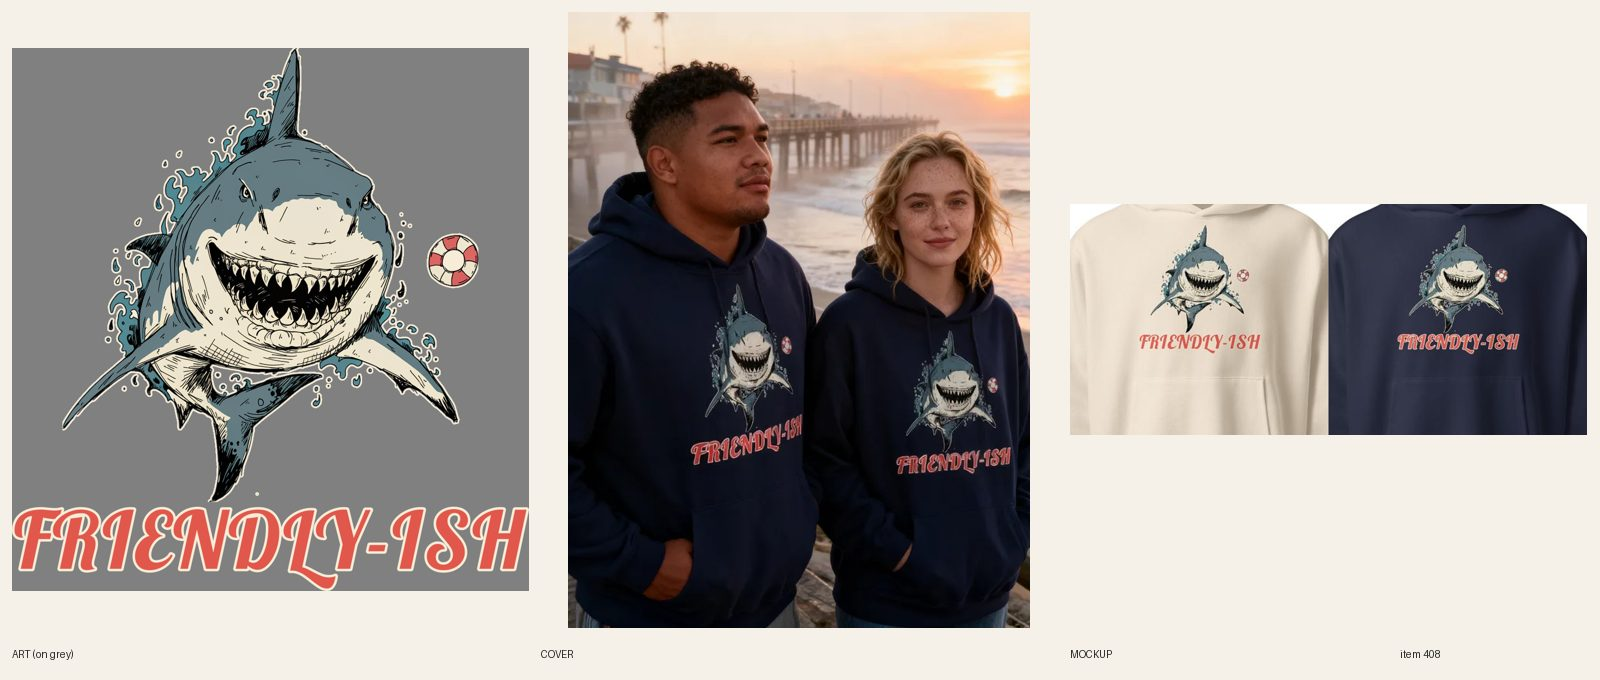
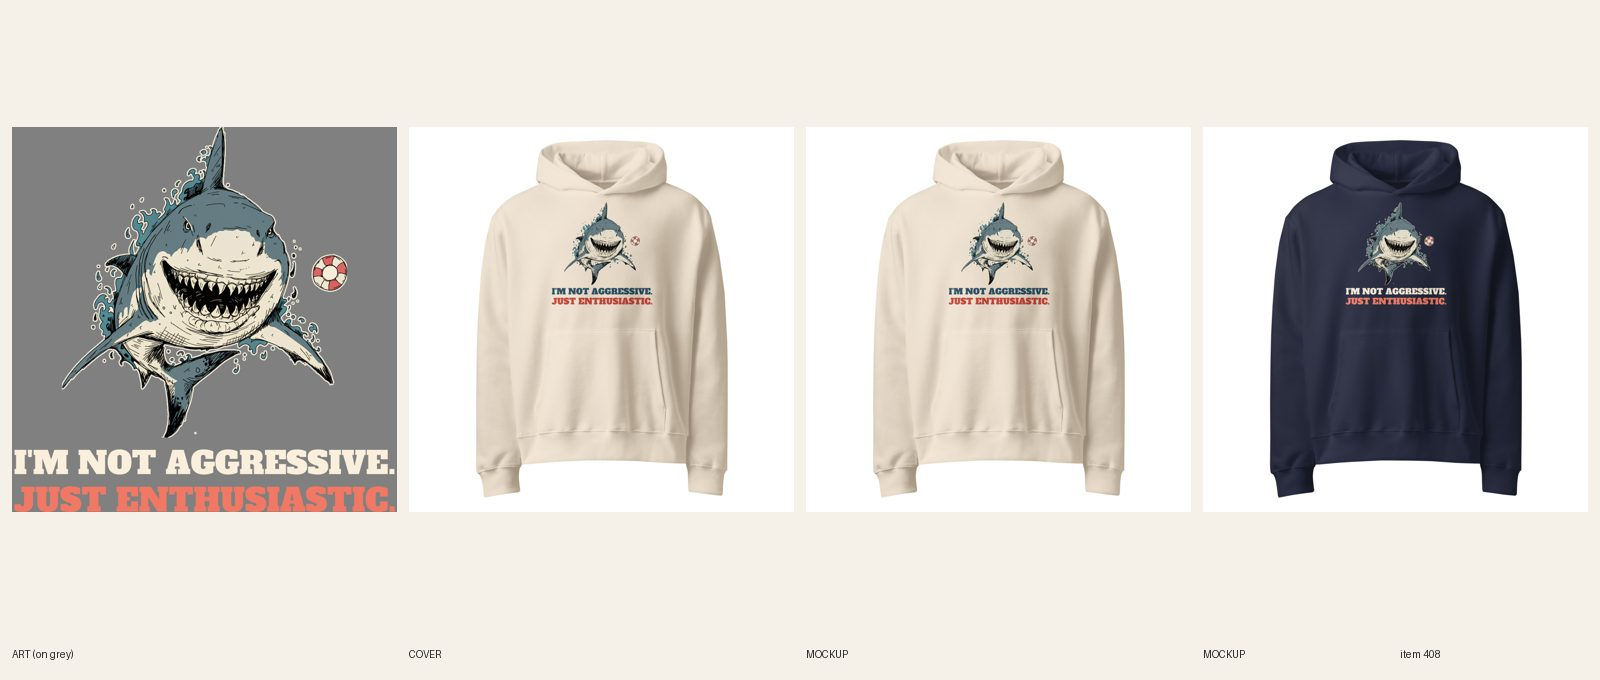
[A] review 408 (redo)
Claude-Session: https://claude.ai/code/session_01LaaEYpKaSBZd9opL7Tpo7i

diff --git a/docs/pipeline/408-oversized-hoodie-shark-friendly-ish.md b/docs/pipeline/408-oversized-hoodie-shark-friendly-ish.md
@@ -1,4 +1,4 @@
-status: BUILDING [A] 2026-10-20 08:26 UTC
+status: REVIEW
 lane: A
 type: new
 id: 408
@@ -30,3 +30,4 @@ kd: 20
 - 2026-10-17 21:52 UTC builder [A]: Printful resync verified (12/12 variants on the new file); REVIEW.
 - 2026-10-17 22:39 UTC director: APPROVED, LIVE. ACTIVE + Online Store, Headless and Google & YouTube; audit --handle PASS (0 warn). Copy polished by the director first (R8: keyword counts, superlatives, false claims).
 - 2026-10-18 17:22 UTC director: QUALITY RESET grade C (new line + type), REDO. The product stays ACTIVE (same handle, URL, title keyword). 1. Line (R3.12, quality-reset 'Lines'): "FRIENDLY-ISH": One-word mild aside on a grinning shark. Write 5 candidates, keep the one a stranger laughs at in 3 seconds without backstory; kill lines that only describe the picture; if none of the 5 is funny, PARK it. 2. Quality reset type bar (docs/backlog/quality-reset.md, 'The new bar'): headline at least 90% of the art width, heavy, colors pulled from the art; second line at least 45% of the headline's height, never a thin script on a dark or mid garment; use the lettering as a shape (arch, stacked lockup, words breaking into the art), not a plain bar above and a script line below; no font used on more than 1 in 6 of the last 30 designs. 3. Keep the art if it carries the new line, else one new illustration (R4/R5). New print means a new cover per R6.10, copy line one rewritten for the new joke (R8.3), and a fresh review sheet (R7.7). While quality-reset.md says PAUSED, only lane A builds, and only the samples step 2 names.
+- 2026-10-20 08:32 UTC builder [A]: REDO grade C done (new line + type). Line: I'M NOT AGGRESSIVE. / JUST ENTHUSIASTIC. (5 candidates; the grin-with-every-tooth reframe kept; title and handle unchanged). Same great white art (old script line cropped off, 3300x2892), Alfa Slab One both lines at full print width (3257 / 3260 px), slate blue + coral from the art, lockup 3300x3300, FW 1500 TOP 0 (oversized hoodie 4719, Printful 892, pocket clear). Light-file split: Dust on 1090256703 (slate headline, coral punchline), Navy on 1090256712 (cream headline, coral punchline). Back logo 1080398177 kept. Relinked 12/12 verified. 2 fronts replaced in place (fileUpdate), phone-size read ok on both. Copy: Story line one, art sentence (ink named per color), FAQ 1 updated; SEO title/meta updated; 5 FAQs, Dec 8 kept; no R8.3 opener. Cover: handle added to retired-covers.json (plain product shot). fal $0. audit --handle PASS; astro build ok.

diff --git a/docs/intake-log.md b/docs/intake-log.md
@@ -1,4 +1,5 @@
 2026-10-20 08:47 UTC — [D] Director run: inbox nothing new. 6 LIVE (cap): #443 #552 #554 #561 #635 #382, audit PASS (#554 #561 SEO titles added). Reviewed 16: 12 approved and held (#387 #389 retitled), 4 REDO (#397 stock line, #507 geyser still a rectangle, #509 shield scene, #610 stock Etsy line). Builder card 7j (no more SORRY/BOOKED lines). READY: A 13, B 12, C 12, E 12. No Telegram (digest not due, nothing for Sam). Lock released.
+2026-10-20 08:32 UTC — [A] Builder run: redid #408 Unisex Shark oversized hoodie (line+type: I'M NOT AGGRESSIVE. / JUST ENTHUSIASTIC., same great white art, Alfa Slab full width, FW 1500 TOP 0, Dust file 1090256703 / Navy file 1090256712, 12/12 relinked, 2 fronts replaced in place, copy updated, plain product shot). REVIEW. fal $0.
 2026-10-20 07:50 UTC — [H] Helper run: Telegram inbox empty (getUpdates returned 0 updates; no pause, resume or TikTok links; nothing to consume). Audit 609 live products: 0 errors, 31 warnings left alone (polish); committed docs/cohesion-audit.md and .json (npm ci first, esbuild was missing). Category check: 0 products without a Shopify category (filtered query empty, no mutation). Announcement bar already on the holiday line, 0 price errors. Site check: womens-christmas-christmas-nurse-crewneck-sweatshirt, womens-thanksgiving-the-turkey-is-fine-graphic-tee, womens-volleyball-i-only-dive-for-snacks-hoodie all 200. Stuck-work check: nothing BUILDING over 3h (5 items claimed or committed in the last hour); lane A's 02:28 lock lines are residue (lane A committed at 07:44). Daily summary not due (before 12:00 UTC). Cleared the helper's stale 05:44 lock line. Lock released.
 2026-10-20 08:00 UTC — [E] Builder run: redid #610 Women's Pickleball crewneck (line + type: SORRY, I HAVE / PICKLEBALL., same calendar-of-paddles art, Alfa Slab One, Navy + Sand files, 12/12 synced). REVIEW. fal $0.
 RUNNING lane B since 2026-10-20 07:29 UTC
